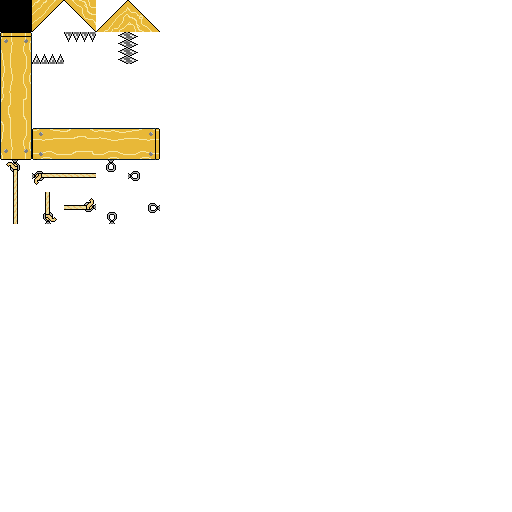
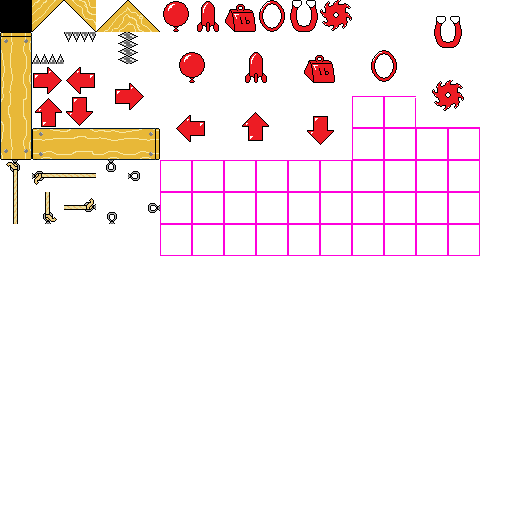
Update tiles for tutorial inserts, draw background map layer dimmed

diff --git a/core/src/lando/systems/ld35/gameobjects/LevelInfo.java b/core/src/lando/systems/ld35/gameobjects/LevelInfo.java
@@ -59,7 +59,9 @@ public class LevelInfo {
     }
 
     public void renderBackground() {
+        mapRenderer.getBatch().setColor(1f, 1f, 1f, 0.5f);
         mapRenderer.renderTileLayer(backgroundLayer);
+        mapRenderer.getBatch().setColor(1f, 1f, 1f, 1.0f);
     }
 
     public void renderForeground(SpriteBatch batch) {
